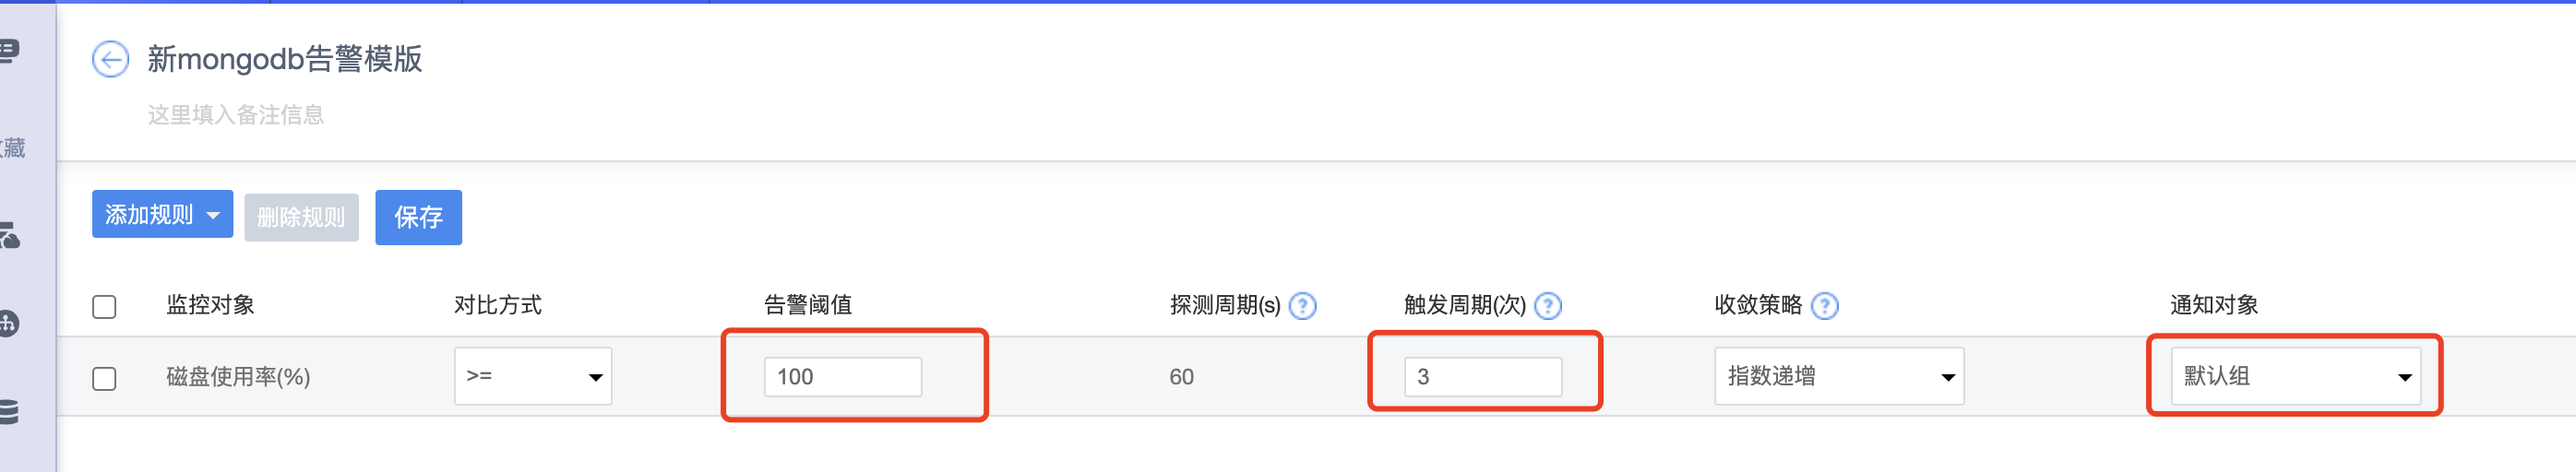
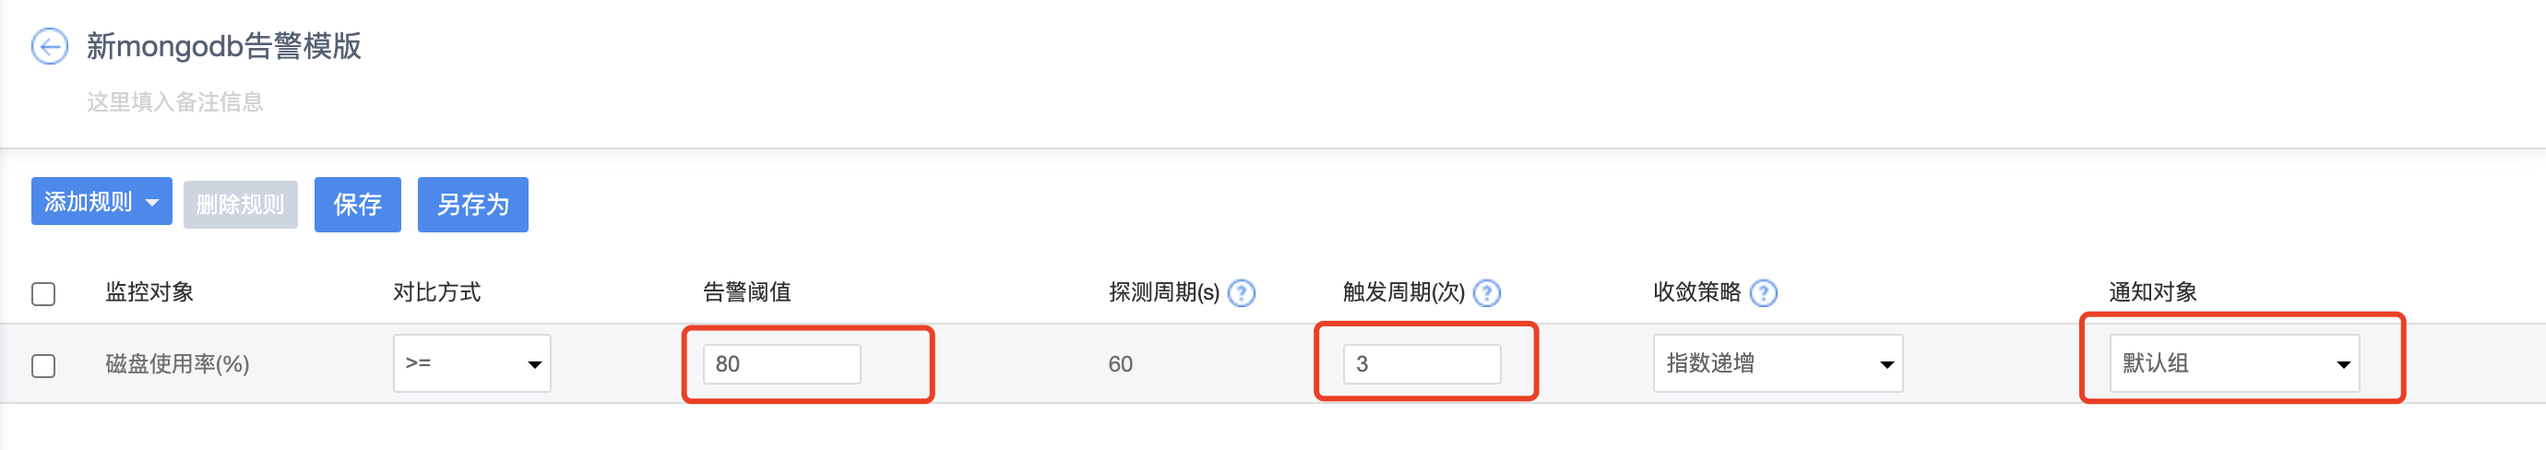
优化

diff --git a/guide/monitor.md b/guide/monitor.md
@@ -54,7 +54,7 @@
 
 ![image](/images/monitor/new_template.png)
 
-规则添加后, 需要对该规则进行编辑, 比如这里填写之后的效果就是在3次探测周期中, 连续3次出现磁盘使用率大于等于100%, 即会向对应的通知组中的人员发送相应的告警信息。
+规则添加后, 需要对该规则进行编辑, 比如这里填写之后的效果就是在3次探测周期中, 连续3次出现磁盘使用率大于等于80%, 即会向对应的通知组中的人员发送相应的告警信息。
 
 ![image](/images/monitor/new_template_2.png)
 
